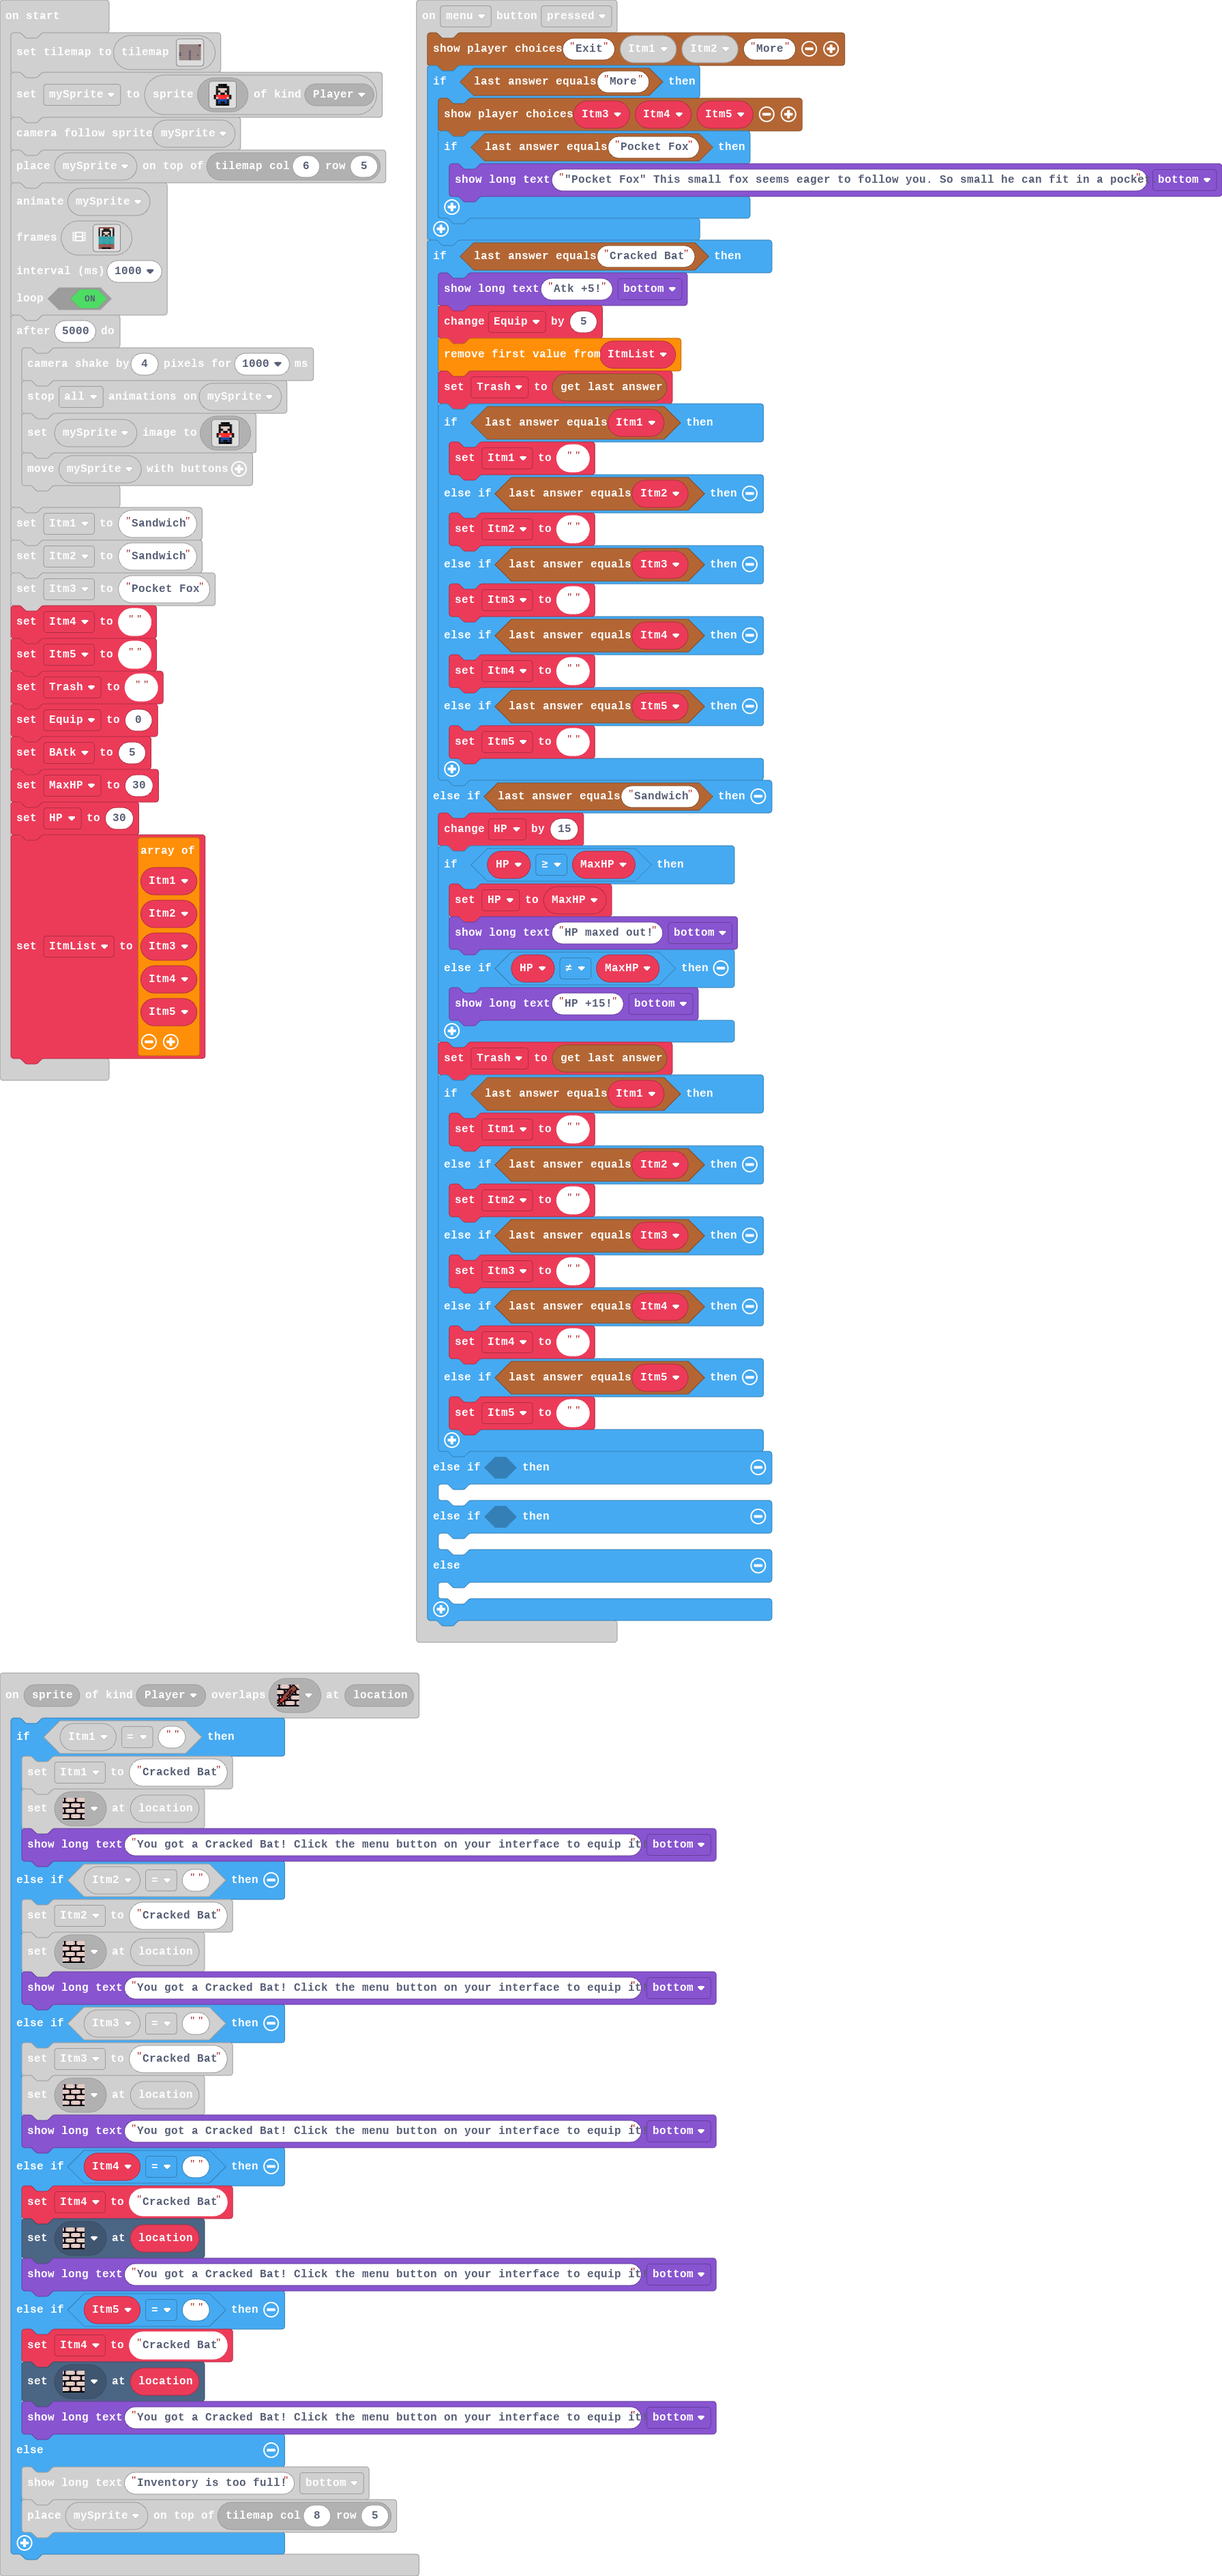
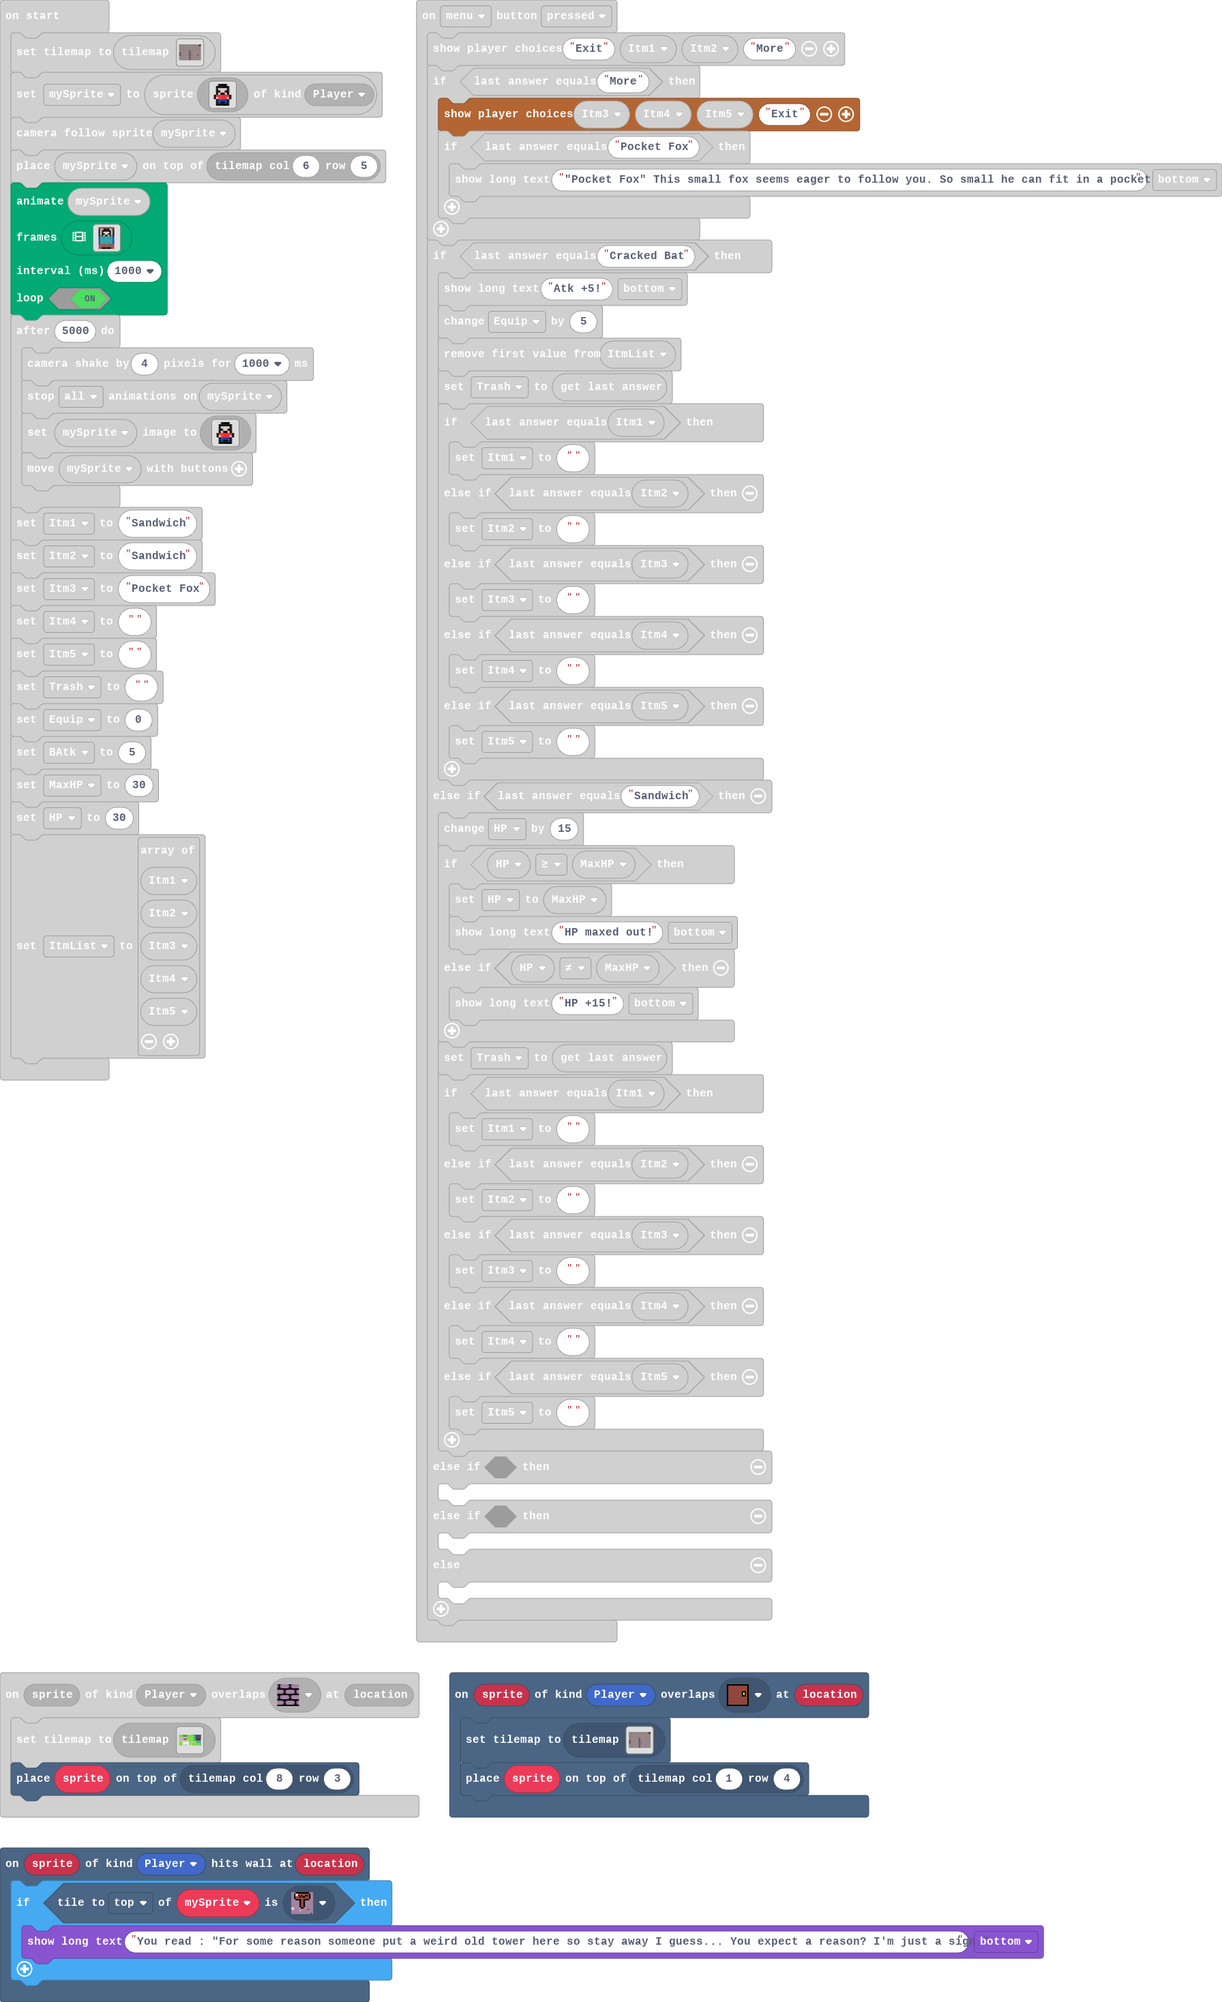
Update main.blocks, main.ts, tilemap.g.jres, tilemap.g.ts

diff --git a/tilemap.g.ts b/tilemap.g.ts
@@ -12,6 +12,28 @@ namespace myTiles {
     export const tile4 = image.ofBuffer(hex``);
     //% fixedInstance jres blockIdentity=images._tile
     export const tile5 = image.ofBuffer(hex``);
+    //% fixedInstance jres blockIdentity=images._tile
+    export const tile6 = image.ofBuffer(hex``);
+    //% fixedInstance jres blockIdentity=images._tile
+    export const tile7 = image.ofBuffer(hex``);
+    //% fixedInstance jres blockIdentity=images._tile
+    export const tile8 = image.ofBuffer(hex``);
+    //% fixedInstance jres blockIdentity=images._tile
+    export const tile9 = image.ofBuffer(hex``);
+    //% fixedInstance jres blockIdentity=images._tile
+    export const tile10 = image.ofBuffer(hex``);
+    //% fixedInstance jres blockIdentity=images._tile
+    export const tile11 = image.ofBuffer(hex``);
+    //% fixedInstance jres blockIdentity=images._tile
+    export const tile12 = image.ofBuffer(hex``);
+    //% fixedInstance jres blockIdentity=images._tile
+    export const tile14 = image.ofBuffer(hex``);
+    //% fixedInstance jres blockIdentity=images._tile
+    export const tile16 = image.ofBuffer(hex``);
+    //% fixedInstance jres blockIdentity=images._tile
+    export const tile17 = image.ofBuffer(hex``);
+    //% fixedInstance jres blockIdentity=images._tile
+    export const tile13 = image.ofBuffer(hex``);
 
     helpers._registerFactory("tilemap", function(name: string) {
         switch(helpers.stringTrim(name)) {
@@ -64,8 +86,8 @@ namespace myTiles {
 . . . . . 2 . . . . . 
 . . . . . 2 . . . . . 
 `, [myTiles.transparency16,myTiles.tile2,myTiles.tile1,myTiles.tile3,myTiles.tile4], TileScale.Sixteen);
-            case "level4":
-            case "level4":return tiles.createTilemap(hex`1000100000000000000000000000000000000000000000000000000000000000000000000000000000000000000000000000000000000000000000000000000000000000000000000000000000000000000000000000000000000000000000000000000000000000000000000000000000000000000000000000000000000000000000000000000000000000000000000000000000000000000000000000000000000000000000000000000000000000000000000000000000000000000000000000000000000000000000000000000000000000000000000000000000000000000000000000000000000000000000000000000000000000000000000000000000000000`, img`
+            case "level6":
+            case "level6":return tiles.createTilemap(hex`1000100000000000000000000000000000000000000000000000000000000000000000000000000000000000000000000000000000000000000000000000000000000000000000000000000000000000000000000000000000000000000000000000000000000000000000000000000000000000000000000000000000000000000000000000000000000000000000000000000000000000000000000000000000000000000000000000000000000000000000000000000000000000000000000000000000000000000000000000000000000000000000000000000000000000000000000000000000000000000000000000000000000000000000000000000000000000`, img`
 . . . . . . . . . . . . . . . . 
 . . . . . . . . . . . . . . . . 
 . . . . . . . . . . . . . . . . 
@@ -83,25 +105,36 @@ namespace myTiles {
 . . . . . . . . . . . . . . . . 
 . . . . . . . . . . . . . . . . 
 `, [myTiles.transparency16], TileScale.Sixteen);
+            case "level4":
[1 lines of base64/hex data omitted]
+. . . . . . . . . . 2 
+. . . . . . . . . . . 
+. . . . . . . . . . . 
+. . . . . 2 . . . . . 
+. . . . . 2 . . . . . 
+. . . . . 2 . . . . . 
+. . . . . 2 . . . . . 
+. . . . . 2 . . . . . 
+`, [myTiles.transparency16,myTiles.tile2,myTiles.tile1,myTiles.tile3,myTiles.tile6], TileScale.Sixteen);
             case "level5":
-            case "level5":return tiles.createTilemap(hex`1000100000000000010101010101010100000000000000000101010101010101000000000000000001010101020101010000000003030303030303030403030303030303030303030304040404030303030303030303030303040303030303030303030303030303030403030303030303030303030303030303030303030303030303030303030303030303030303030303030303030303030303030303030303030303030303030303030303030303030303030303030303030303030303030303030303030303030303030303030303030303030303030303030303030303030303030303030303030303030303030303030303030303030303030303030303030303`, img`
-2 2 2 2 2 2 2 2 2 2 2 2 2 2 2 2 
-2 2 2 2 2 2 2 2 2 2 2 2 2 2 2 2 
-2 2 2 2 2 2 2 2 . 2 2 2 2 2 2 2 
-. . . . . . . . . . . . . . . . 
-. . . . . . . . . . . . . . . . 
-. . . . . . . . . . . . . . . . 
-. . . . . . . . . . . . . . . . 
-. . . . . . . . . . . . . . . . 
-. . . . . . . . . . . . . . . . 
-. . . . . . . . . . . . . . . . 
-. . . . . . . . . . . . . . . . 
-. . . . . . . . . . . . . . . . 
-. . . . . . . . . . . . . . . . 
-. . . . . . . . . . . . . . . . 
-. . . . . . . . . . . . . . . . 
-. . . . . . . . . . . . . . . . 
-`, [myTiles.transparency16,myTiles.tile2,myTiles.tile5,sprites.castle.tileGrass1,sprites.castle.tilePath5], TileScale.Sixteen);
[1 lines of base64/hex data omitted]
+.....2222222.............2222222
+.....2222222.............2222222
+.....222.222.............2222222
+.........................2222222
+.........................2222222
+22222.22222..............2222222
+22222.22222..............2222222
+22222.22222...............22.222
+22.22.......................2..2
+...............................2
+......22222222.................2
+......22222222.................2
+......22222222.................2
+......22222222.................2
+......22222222.................2
+...............................2
+`, [myTiles.transparency16,myTiles.tile2,myTiles.tile5,sprites.castle.tileGrass1,sprites.castle.tilePath5,myTiles.tile7,myTiles.tile1,myTiles.tile8,myTiles.tile9,sprites.castle.tileDarkGrass3,sprites.builtin.forestTiles0,myTiles.tile10,myTiles.tile11,myTiles.tile12,myTiles.tile13,myTiles.tile14,myTiles.tile16,myTiles.tile17], TileScale.Sixteen);
         }
         return null;
     })
@@ -119,6 +152,28 @@ namespace myTiles {
             case "tile4":return tile4;
             case "myTile4":
             case "tile5":return tile5;
+            case "myTile5":
+            case "tile6":return tile6;
+            case "myTile6":
+            case "tile7":return tile7;
+            case "myTile":
+            case "tile8":return tile8;
+            case "myTile7":
+            case "tile9":return tile9;
+            case "myTile8":
+            case "tile10":return tile10;
+            case "myTile9":
+            case "tile11":return tile11;
+            case "myTile10":
+            case "tile12":return tile12;
+            case "myTile12":
+            case "tile14":return tile14;
+            case "myTile14":
+            case "tile16":return tile16;
+            case "myTile15":
+            case "tile17":return tile17;
+            case "myTile11":
+            case "tile13":return tile13;
         }
         return null;
     })

diff --git a/main.ts b/main.ts
@@ -1,5 +1,15 @@
 scene.onOverlapTile(SpriteKind.Player, assets.tile`myTile1`, function (sprite, location) {
     tiles.setCurrentTilemap(tilemap`level5`)
+    tiles.placeOnTile(sprite, tiles.getTileLocation(8, 3))
+})
+scene.onHitWall(SpriteKind.Player, function (sprite, location) {
+    if (mySprite.tileKindAt(TileDirection.Top, assets.tile`myTile11`)) {
+        game.showLongText("You read : \"For some reason someone put a weird old tower here so stay away I guess... You expect a reason? I'm just a sign.\"", DialogLayout.Bottom)
+    }
+})
+scene.onOverlapTile(SpriteKind.Player, assets.tile`myTile4`, function (sprite, location) {
+    tiles.setCurrentTilemap(tilemap`level4`)
+    tiles.placeOnTile(sprite, tiles.getTileLocation(1, 4))
 })
 scene.onOverlapTile(SpriteKind.Player, assets.tile`myTile3`, function (sprite, location) {
     if (Itm1 == "") {
@@ -30,7 +40,7 @@ scene.onOverlapTile(SpriteKind.Player, assets.tile`myTile3`, function (sprite, l
 controller.menu.onEvent(ControllerButtonEvent.Pressed, function () {
     story.showPlayerChoices("Exit", Itm1, Itm2, "More")
     if (story.checkLastAnswer("More")) {
-        story.showPlayerChoices(Itm3, Itm4, Itm5)
+        story.showPlayerChoices(Itm3, Itm4, Itm5, "Exit")
         if (story.checkLastAnswer("Pocket Fox")) {
             game.showLongText("\"Pocket Fox\" This small fox seems eager to follow you. So small he can fit in a pocket.", DialogLayout.Bottom)
         }
@@ -108,31 +118,31 @@ animation.runImageAnimation(
 mySprite,
 [img`
     e e e e e e e e e e 
-    f 1 1 f f f f 1 1 f 
-    f 1 f f f f f f 1 f 
-    f 1 f d d d d f 1 f 
-    f 1 f f d d f f 1 f 
-    f 1 f d f f d f 1 f 
-    6 6 6 6 6 6 6 6 6 6 
-    6 6 6 6 6 6 6 6 6 6 
-    6 6 6 6 6 6 6 6 6 6 
-    6 6 6 6 6 6 6 6 6 6 
-    6 6 6 6 6 6 6 6 6 6 
+    f b d f f f f d b f 
+    f d f f f f f f d f 
+    f d f d d d d f d f 
+    f d f f d d f f d f 
+    f b f d f f d f b f 
+    8 6 6 6 6 6 6 6 6 8 
+    8 6 6 6 6 6 6 6 6 8 
+    8 6 6 6 6 6 6 6 6 8 
+    8 6 6 6 6 6 6 6 6 8 
+    8 6 6 6 6 6 6 6 6 8 
     e e e e e e e e e e 
     e e e e e e e e e e 
     e e f f f f f f e e 
     `,img`
     e e e e e e e e e e 
-    f 1 1 1 1 1 1 1 1 f 
-    f 1 1 f f f f 1 1 f 
-    f 1 f f f f f f 1 f 
-    f 1 f d d d d f 1 f 
-    f 1 f f d d f f 1 f 
-    6 6 6 6 6 6 6 6 6 6 
-    6 6 6 6 6 6 6 6 6 6 
-    6 6 6 6 6 6 6 6 6 6 
-    6 6 6 6 6 6 6 6 6 6 
-    6 6 6 6 6 6 6 6 6 6 
+    f b d d d d d d b f 
+    f d 1 f f f f 1 d f 
+    f d f f f f f f d f 
+    f d f d d d d f d f 
+    f b f f d d f f b f 
+    8 6 6 6 6 6 6 6 6 8 
+    8 6 6 6 6 6 6 6 6 8 
+    8 6 6 6 6 6 6 6 6 8 
+    8 6 6 6 6 6 6 6 6 8 
+    8 6 6 6 6 6 6 6 6 8 
     e e e e e e e e e e 
     e e e e e e e e e e 
     e e f f f f f f e e 
